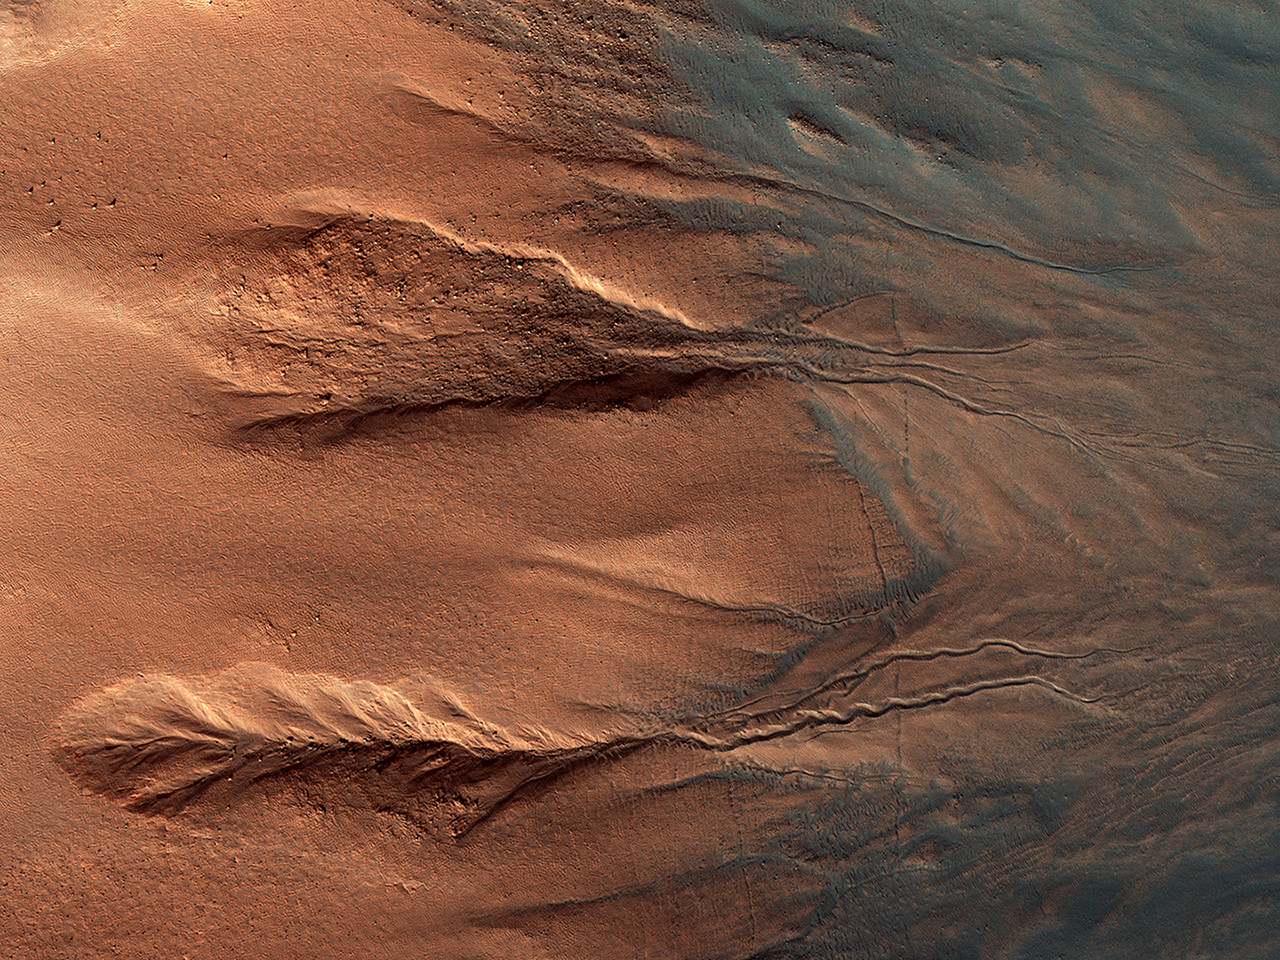
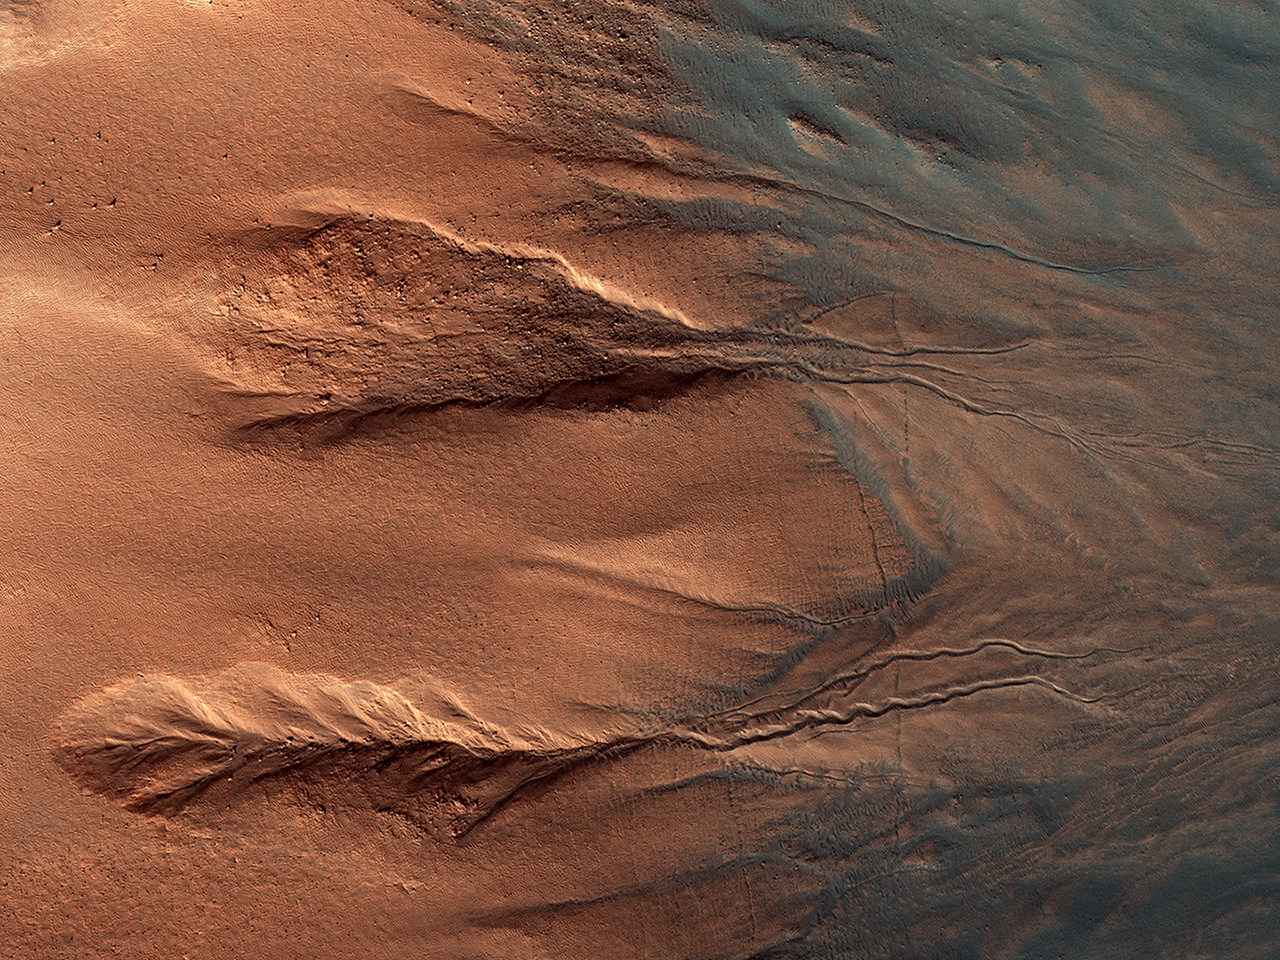
downsampled topo and mars

diff --git a/home/templates/home/index.html b/home/templates/home/index.html
@@ -114,7 +114,7 @@
 
 	    body figure:nth-child(1){
 	    	animation-delay:0s;
-	    	background-image: url("{% static 'home/topo.jpg' %}");
+	    	background-image: url("{% static 'home/topo2.jpg' %}");
 	    }
 	    body figure:nth-child(2){
 	    	animation-delay:5s;
